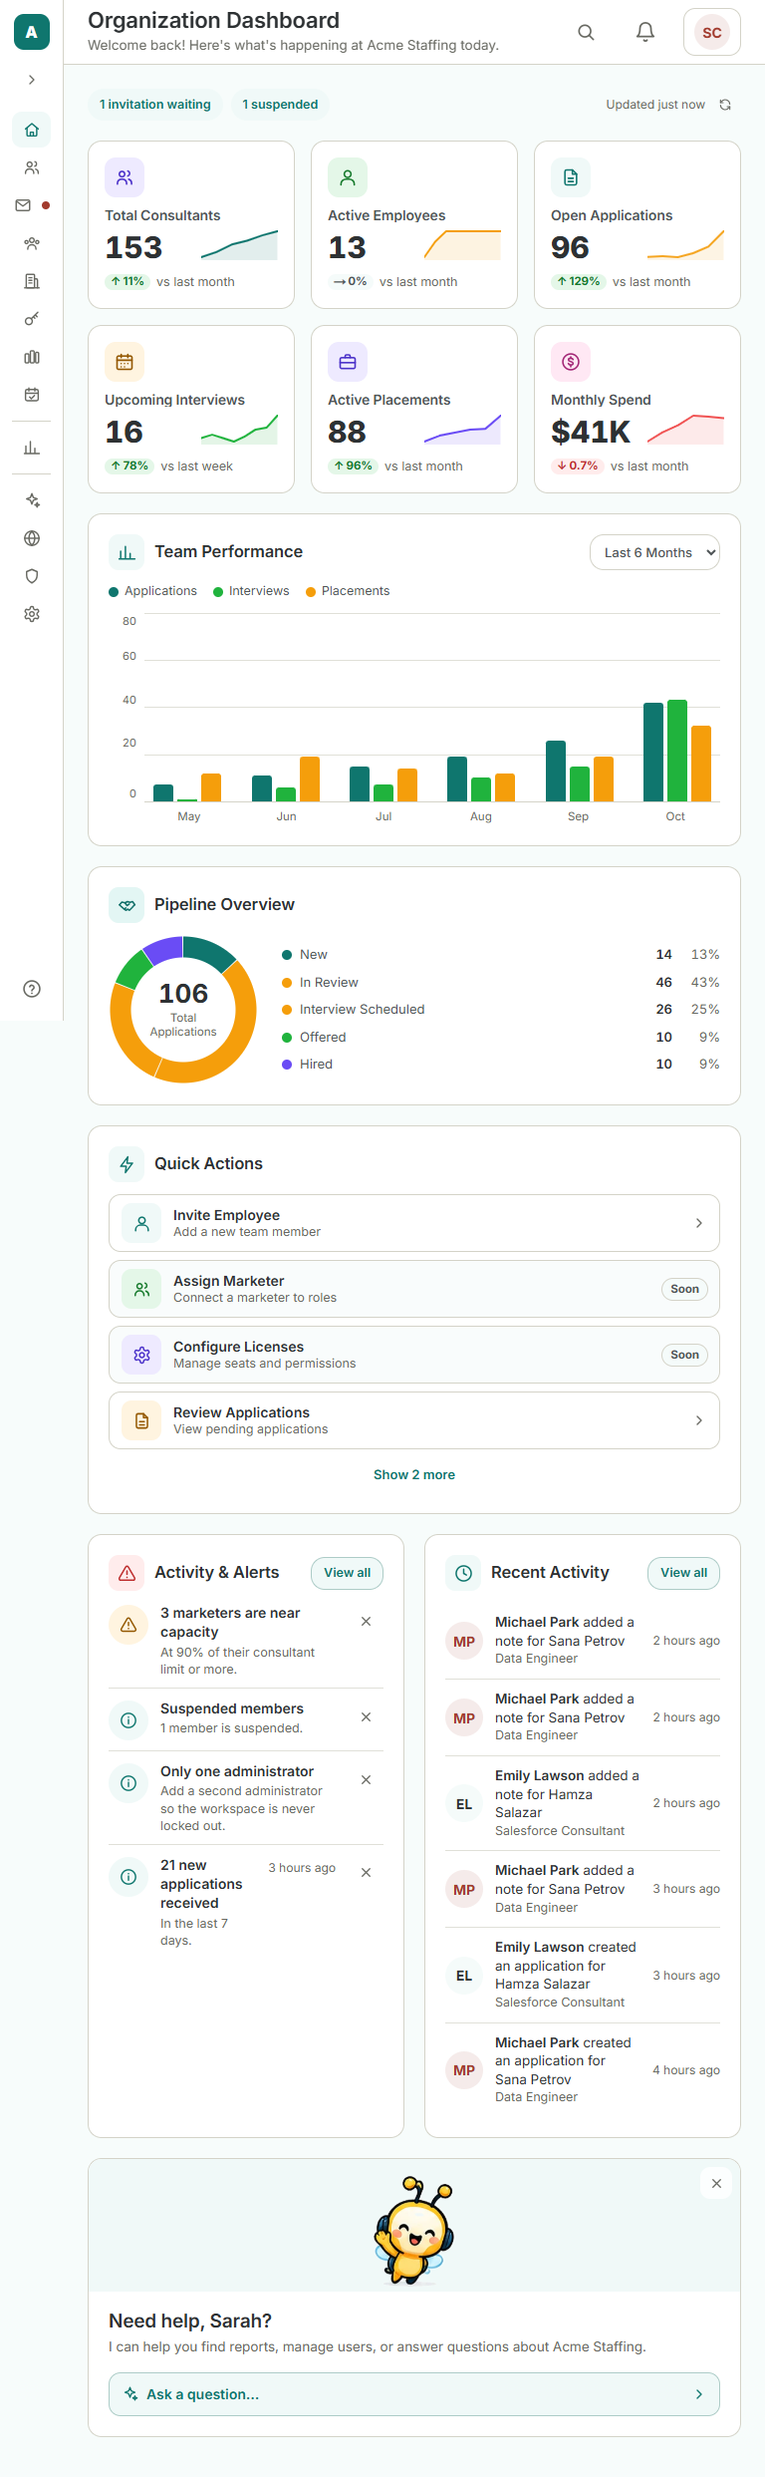
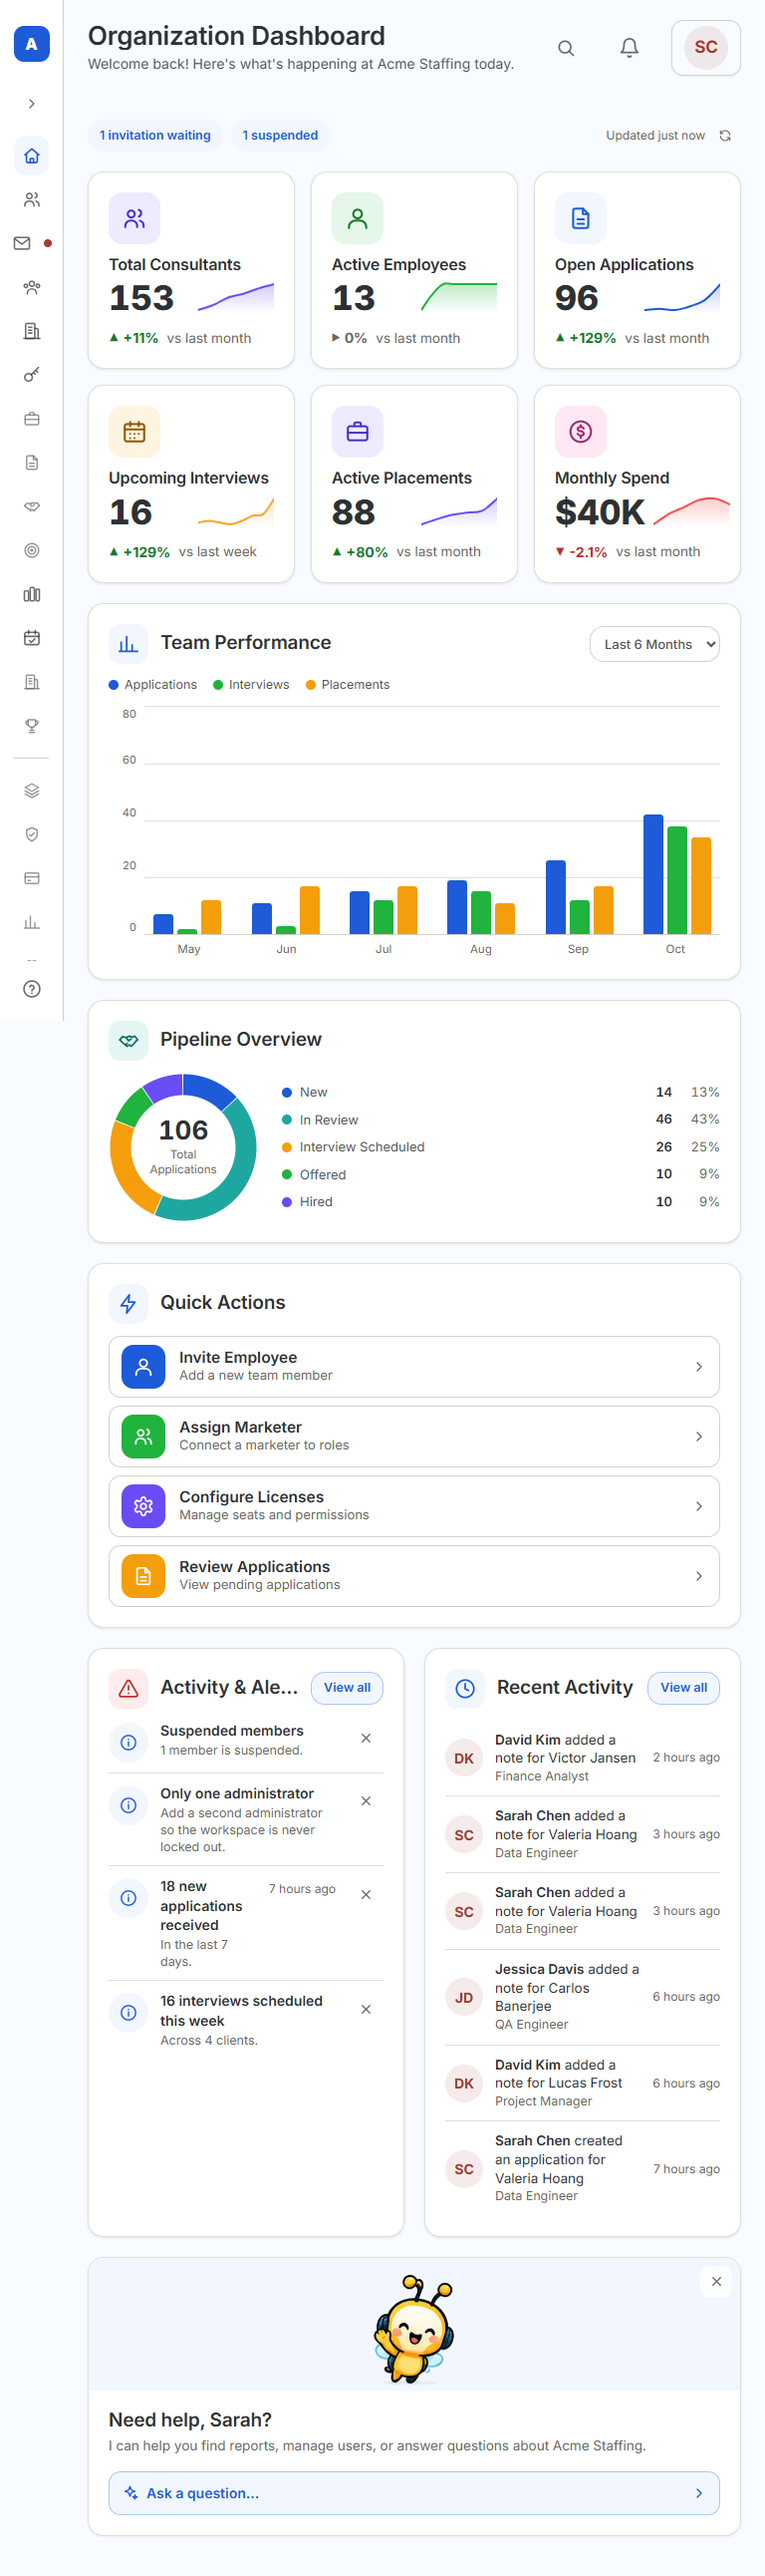
ent-dashboard: legend wrap, quick actions as the board's four, built screenshots at 1672/768/390

diff --git a/web/src/components/ent/dashboard/DashboardPage.tsx b/web/src/components/ent/dashboard/DashboardPage.tsx
@@ -216,7 +216,7 @@ function PipelineCard({ body }: { body: CardBody }) {
       <div className="mt-3 flex flex-1 flex-col">
         {shared ??
           (pipe ? (
-            <DonutChart size={168} label="Applications by stage" total={pipe.total} totalLabel="Total Applications" slices={pipe.slices.map((x) => ({ ...x, color: STAGE_COLORS[x.key] }))} />
+            <DonutChart size={150} label="Applications by stage" total={pipe.total} totalLabel="Total Applications" slices={pipe.slices.map((x) => ({ ...x, color: STAGE_COLORS[x.key] }))} />
           ) : (
             <p className="py-6 text-center text-[13.5px] text-muted">{emptyText(null)}</p>
           ))}
@@ -226,15 +226,14 @@ function PipelineCard({ body }: { body: CardBody }) {
 }
 
 const ACTIVITY_SHOWN = 6; // the board shows five or six; "View all" has the rest
-const QUICK_SHOWN = 4; // the board shows four; the rest the API sends sit behind "Show more"
+const QUICK_SHOWN = 4; // the board shows four; the rest the API sends are reachable from the menu
 
 function QuickActionsCard({ body }: { body: CardBody }) {
-  const [all, setAll] = useState(false);
   const { widget } = body;
   if (!body.loading && !widget) return null;
   const shared = stateBody(body, "your shortcuts");
   const every = widget && !body.loading ? quickActionsOf(widget) : [];
-  const items = all ? every : every.slice(0, QUICK_SHOWN);
+  const items = every.slice(0, QUICK_SHOWN);
   return (
     <section aria-labelledby="dash-quick" data-dash-card="quick.actions" className={cn(CARD, "flex min-w-0 flex-col p-4 sm:p-5")}>
       <CardHead id="dash-quick" icon={ZapIcon} title="Quick Actions" />
@@ -248,11 +247,6 @@ function QuickActionsCard({ body }: { body: CardBody }) {
             ))}
           </ul>
         )}
-        {!shared && every.length > QUICK_SHOWN ? (
-          <button type="button" onClick={() => setAll((v) => !v)} aria-expanded={all} className="mt-2 min-h-9 w-full rounded-lg px-2 text-[13px] font-semibold text-accent-deep hover:bg-accent-soft">
-            {all ? "Show fewer" : `Show ${every.length - QUICK_SHOWN} more`}
-          </button>
-        ) : null}
       </div>
     </section>
   );

diff --git a/web/src/components/ent/shell/ShellNav.tsx b/web/src/components/ent/shell/ShellNav.tsx
@@ -46,11 +46,12 @@ export default function ShellNav({
           onClick={onNavigate}
           data-nav-item={item.key}
           data-nav-soon="true"
+          title="On the way"
           className={cn(ROW, "text-ink/45 hover:text-ink/70", collapsed && "justify-center px-0")}
         >
           <NavIcon name={item.icon} className="flex-none text-muted/70" />
           {collapsed ? null : <span className="min-w-0 flex-1 truncate">{item.text}</span>}
-          {collapsed ? null : item.key === "hr" || item.key === "finance" ? <ChevronDownIcon size={14} className="flex-none text-muted/70" /> : <span data-soon-chip className="flex-none rounded-full bg-paper-2 px-1.5 py-px text-[10.5px] font-bold uppercase tracking-wide text-muted">Soon</span>}
+          {collapsed ? null : item.key === "hr" || item.key === "finance" ? <ChevronDownIcon size={14} className="flex-none text-muted/70" /> : <span className="sr-only">(soon)</span>}
         </Link>
       );
       return collapsed ? (

diff --git a/packages/ui/src/primitives/Charts.tsx b/packages/ui/src/primitives/Charts.tsx
@@ -279,7 +279,7 @@ export function DonutChart({ slices, total, totalLabel, label, size = 150, class
         {slices.map((s, i) => (
           <li key={s.key} className="flex items-center gap-2 py-1 text-[13px] text-ink-soft">
             <span aria-hidden className="h-2.5 w-2.5 flex-none rounded-full" style={{ background: s.color ?? chartColor(i) }} />
-            <span className="min-w-0 flex-1 truncate">{s.label}</span>
+            <span className="min-w-0 flex-1 leading-tight">{s.label}</span>
             <span className="w-8 text-right font-semibold tabular-nums text-ink">{s.value}</span>
             <span className="w-10 text-right tabular-nums text-muted">{Math.round(parts[i] * 100)}%</span>
           </li>

diff --git a/web/e2e/journeys/tenant-dashboard-v2.spec.ts b/web/e2e/journeys/tenant-dashboard-v2.spec.ts
@@ -156,7 +156,7 @@ test.describe("Sarah on Acme (1440)", () => {
     mkdirSync(out, { recursive: true });
     await signInAs(page, acme!, "Sarah Chen");
     await page.evaluate(() => Object.keys(localStorage).filter((k) => k.startsWith("kiwiply.dashboard.help")).forEach((k) => localStorage.removeItem(k)));
-    for (const [w, h] of [[1440, 900], [768, 1024], [390, 844]] as const) {
+    for (const [w, h] of [[1672, 941], [768, 1024], [390, 844]] as const) {
       await page.setViewportSize({ width: w, height: h });
       await page.goto(`${acme}/w/admin`);
       await loaded(page);
